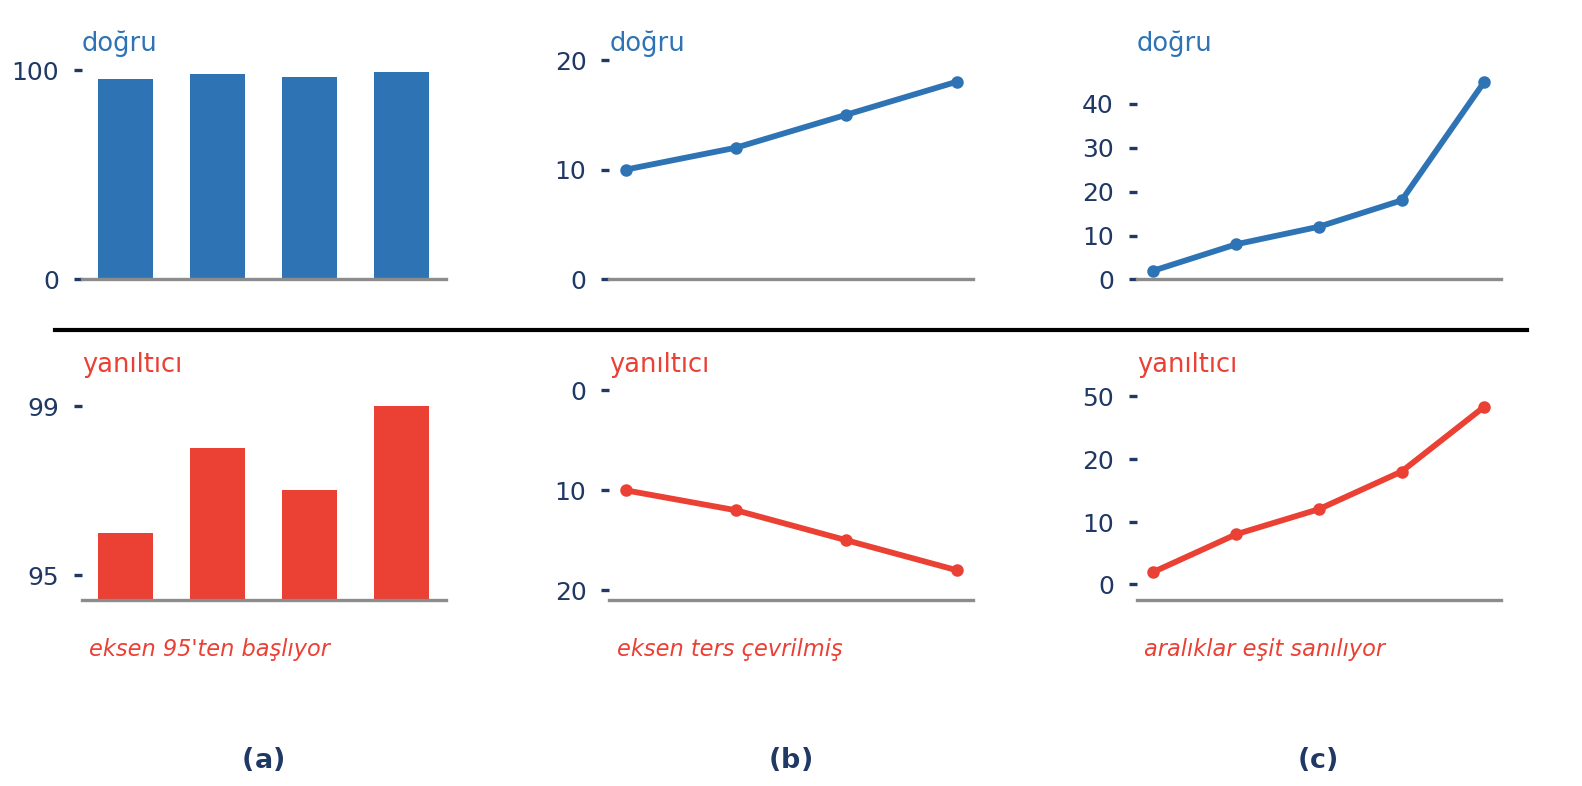
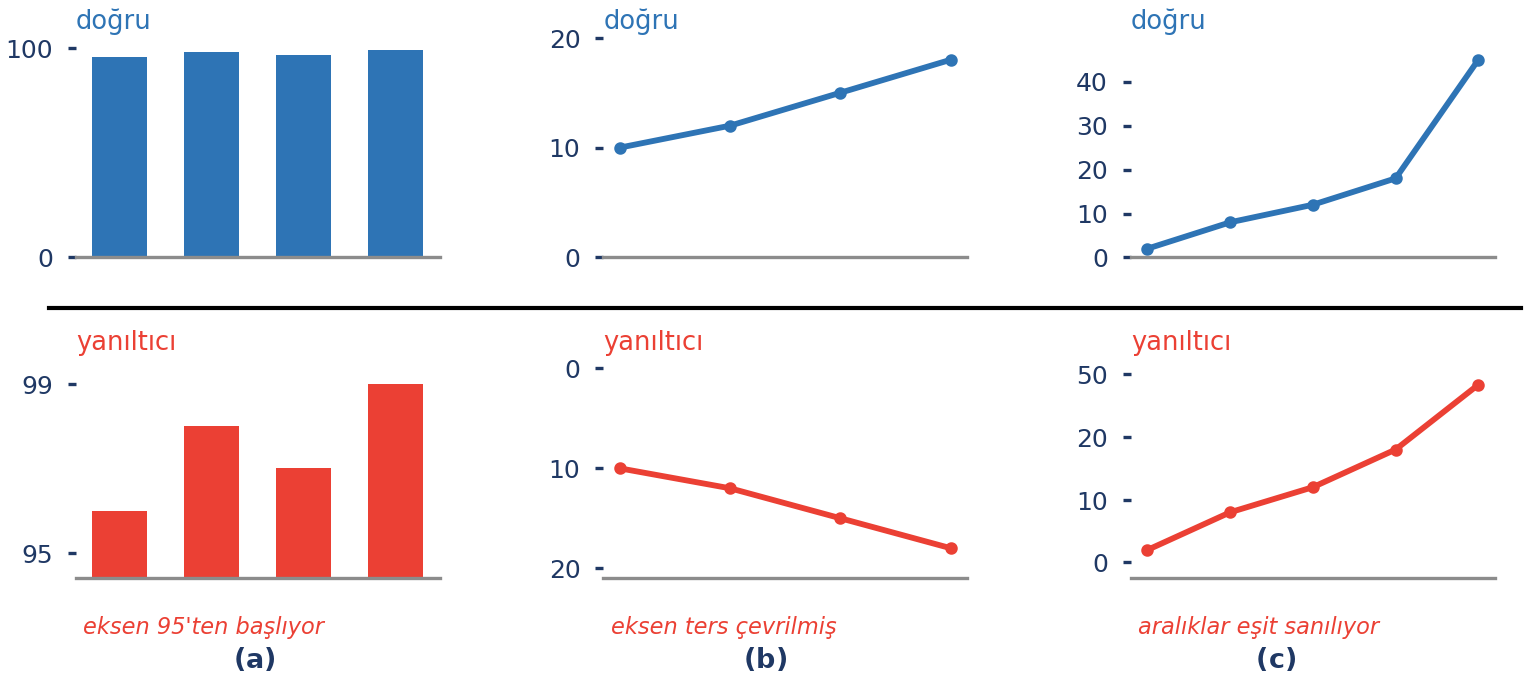
8. hafta: yanıltma şemalarında etiket aralığı eşitlendi
Etiket yardımcısı görselin altındaki beyaz alanı kırpıyor ve (a), (b), (c) etiketlerini çizime eşit uzaklıkta yerleştiriyor. İki şemanın PNG'si yeniden üretildi.

diff --git a/diyagram_betikleri/_not_etiket.py b/diyagram_betikleri/_not_etiket.py
@@ -1,14 +1,31 @@
-"""Ders notu için (a), (b), (c) etiketi ekleyen yardımcı."""
+"""Ders notu için (a), (b), (c) etiketi ekleyen yardımcı.
 
-from PIL import Image, ImageDraw, ImageFont
+Görsel önce çizime göre kırpılır, sonra altına etiket satırı eklenir. Kırpma
+payı (PAY) etiketin çizime olan uzaklığını belirler: pay kadar beyazlık
+bırakılır, etiket onun hemen altına yazılır. Böylece etiket satırı çizime
+yapışmaz ama arada gereksiz boşluk da kalmaz (hafta 8'in üç yanıltma
+şemasında bu aralık eşitlenir).
+"""
+
+from PIL import Image, ImageChops, ImageDraw, ImageFont
 
 YAZI = "/usr/share/fonts/truetype/dejavu/DejaVuSans-Bold.ttf"
 RENK = (31, 56, 100)
-BANT = 54
+PAY = 8   # çizim ile etiket satırı arasındaki boşluk (piksel)
+BANT = 40  # etiket satırının yüksekliği
 
 
 def etiketle(kaynak, hedef):
     im = Image.open(kaynak).convert("RGB")
+
+    # çizimin dışındaki beyaz alanı at; pay kadar beyaz bırak
+    zemin = Image.new("RGB", im.size, (255, 255, 255))
+    kutu = ImageChops.difference(im, zemin).getbbox()
+    if kutu:
+        kutu = (max(0, kutu[0] - PAY), max(0, kutu[1] - PAY),
+                min(im.width, kutu[2] + PAY), min(im.height, kutu[3] + PAY))
+        im = im.crop(kutu)
+
     gen, yuk = im.size
     tuval = Image.new("RGB", (gen, yuk + BANT), "white")
     tuval.paste(im, (0, 0))
@@ -18,7 +35,8 @@ def etiketle(kaynak, hedef):
     for i, etiket in enumerate(("(a)", "(b)", "(c)")):
         x = gen * (1 / 6 + i / 3)
         kutu = cizim.textbbox((0, 0), etiket, font=yazi)
-        cizim.text((x - (kutu[2] - kutu[0]) / 2, yuk + 10), etiket, font=yazi, fill=RENK)
+        # kutu[1] yazının kendi üst boşluğudur; çıkarınca metin tam yuk'ta başlar
+        cizim.text((x - (kutu[2] - kutu[0]) / 2, yuk - kutu[1]), etiket, font=yazi, fill=RENK)
 
     tuval.save(hedef)
     print(f"yazıldı: {hedef}")
